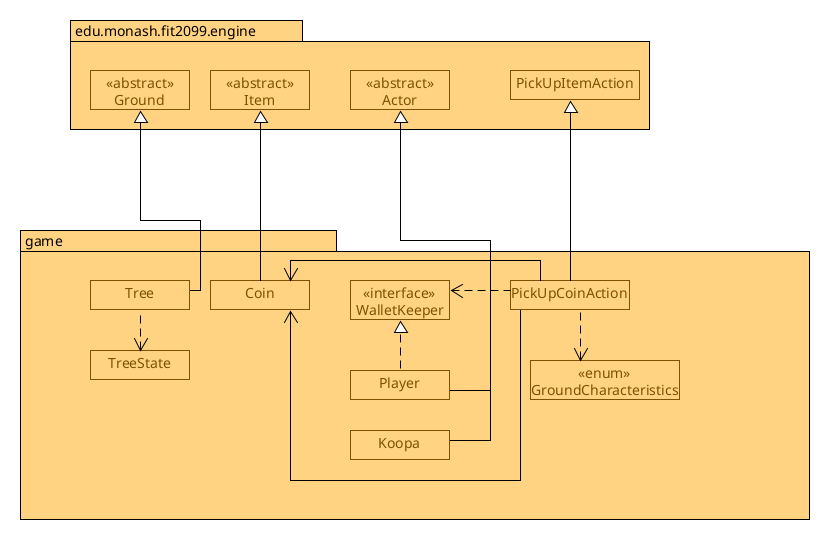
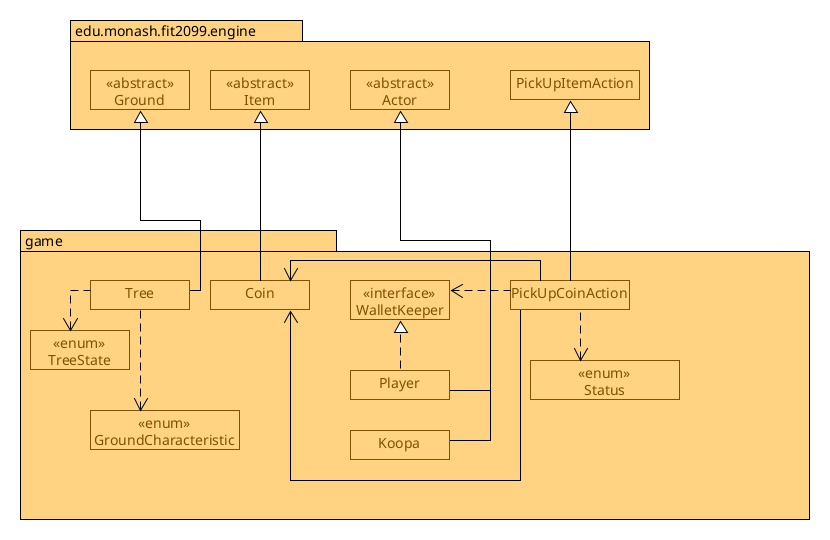
Fixed enum for Tree for REQ1 and added explanation for what GroundCharacteristic is for.

Changed region(s): [[0.0602, 0.5926, 0.2108, 0.7111], [0.1205, 0.7407, 0.3012, 0.8296], [0.6325, 0.7111, 0.8133, 0.7407]]

diff --git a/design-docs/REQ1_DesignRationale.md b/design-docs/REQ1_DesignRationale.md
@@ -96,3 +96,11 @@ The problem with that approach is that it would be harder to have the common
 attributes shared across all the tree stage classes. For example, what if we
 want to give trees a HP bar and ability to be punched down in any stage of the
 tree? Then, all three classes would need to be modified to account for this.
+Hence, we use a TreeState enum to keep track of the tree's stage of growth
+instead.
+
+The reason for a GroundCharacteristic enum is to check for fertile grounds
+on the surrounding. In the Dirt class (not pictured), the constructor would
+add the capability of it being FERTILE. This way, it would be easy to extend in
+the future, if we have other types of ground besides dirt that we want to be
+fertile enough to grow trees on.
